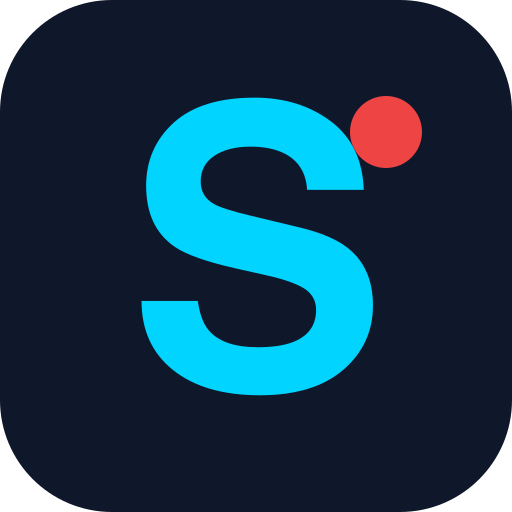
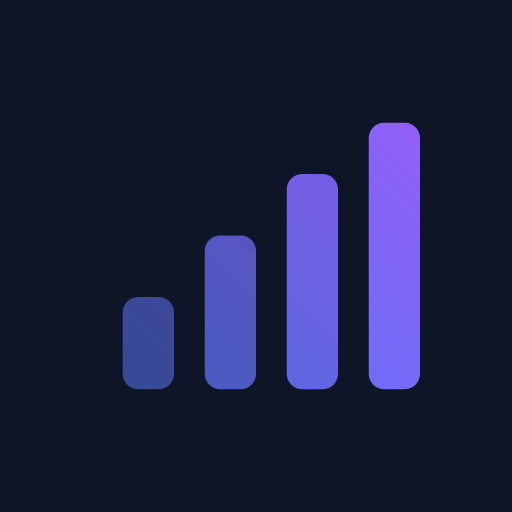
feat(pwa): 앱 아이콘 로고 마크로 교체 + 앱 설치 안내 /app + 푸터 진입점
원인:
- 홈 화면 설치 아이콘이 구 "S+빨간 점" 디자인 — 헤더 로고(막대 4개)와 불일치
- PWA 설치 기능이 있는데 사이트 어디에도 안내·진입점이 없음

해결:
- scripts/build-app-icons.mjs — 로고 Mark SVG 를 아이콘 6종으로 렌더
  (icon-192/512·maskable·apple-touch + src/app 의 icon·apple-icon)
- /app 신설 — PWA 설명 + iPhone/Android/PC 설치 방법 + beforeinstallprompt
  원클릭 설치 버튼(지원 브라우저 한정, standalone 이면 설치됨 표시)
- 푸터 브랜드 카드 "앱 설치" 칩 + 탐색·커뮤니티 목록 링크 추가

검증: tsc 통과. 로컬 실측 — /app 렌더·새 아이콘 표시·manifest 아이콘 3종 200,
푸터 /app 링크 2곳 확인

diff --git a/src/app/app/page.tsx b/src/app/app/page.tsx
@@ -1,0 +1,87 @@
+// 앱 설치 안내 페이지 — PWA(홈 화면에 추가) 설치 방법을 기기별로 안내. 푸터 "앱 설치" 진입점.
+import type { Metadata } from "next";
+import Image from "next/image";
+import InstallButton from "./InstallButton";
+
+export const metadata: Metadata = {
+  title: "앱 설치 — 스코어베이스를 홈 화면에",
+  description:
+    "스코어베이스를 앱처럼 설치하세요. 별도 다운로드 없이 홈 화면에 추가하면 전체 화면으로 더 빠르게 라이브 스코어를 볼 수 있습니다. iPhone·Android·PC 설치 방법 안내.",
+  alternates: { canonical: "/app" },
+};
+
+const STEP =
+  "rounded-2xl border border-neutral-200 bg-white p-5 dark:border-neutral-800 dark:bg-neutral-900";
+const STEP_TITLE = "text-sm font-bold text-neutral-900 dark:text-white";
+const STEP_BODY = "mt-2 space-y-1.5 text-[13px] leading-relaxed text-neutral-600 dark:text-neutral-400";
+
+export default function AppInstallPage() {
+  return (
+    <main className="max-w-2xl mx-auto px-4 sm:px-6 py-10">
+      <div className="flex items-center gap-4">
+        <Image
+          src="/icon-192.png"
+          alt="스코어베이스 앱 아이콘"
+          width={64}
+          height={64}
+          className="rounded-2xl"
+          priority
+        />
+        <div>
+          <h1 className="text-2xl font-black tracking-tight text-neutral-900 dark:text-white">
+            앱으로 설치하기
+          </h1>
+          <p className="mt-1 text-sm text-neutral-500">
+            스토어 다운로드 없이, 지금 보는 사이트를 그대로 앱처럼.
+          </p>
+        </div>
+      </div>
+
+      <div className="mt-5 rounded-2xl bg-blue-500/5 border border-blue-500/15 p-5 text-[13px] leading-relaxed text-neutral-700 dark:text-neutral-300">
+        스코어베이스 앱은 <b>웹앱(PWA)</b> 방식입니다. 앱스토어·플레이스토어에서 내려받는
+        프로그램이 아니라, 브라우저가 이 사이트를 홈 화면에 앱 형태로 얹어 주는 기능이라
+        용량을 거의 차지하지 않고 설치가 1~2초면 끝납니다. 주소창 없는 전체 화면으로 열리고
+        홈 화면 아이콘에서 바로 실행돼 웹으로 여는 것보다 빠르게 느껴집니다. 내용은 웹과
+        실시간으로 동일합니다.
+      </div>
+
+      <div className="mt-5">
+        <InstallButton />
+      </div>
+
+      <div className="mt-8 grid gap-4">
+        <section className={STEP}>
+          <h2 className={STEP_TITLE}>iPhone · iPad (Safari)</h2>
+          <div className={STEP_BODY}>
+            <p>1. Safari 로 scorebase.kr 을 엽니다.</p>
+            <p>2. 하단 가운데 공유 버튼(네모에 화살표)을 누릅니다.</p>
+            <p>3. 목록에서 <b>홈 화면에 추가</b>를 선택하고 추가를 누릅니다.</p>
+          </div>
+        </section>
+
+        <section className={STEP}>
+          <h2 className={STEP_TITLE}>Android (Chrome)</h2>
+          <div className={STEP_BODY}>
+            <p>1. Chrome 으로 scorebase.kr 을 엽니다.</p>
+            <p>2. 오른쪽 위 점 3개 메뉴를 누릅니다.</p>
+            <p>3. <b>앱 설치</b> 또는 <b>홈 화면에 추가</b>를 선택합니다.</p>
+            <p className="text-neutral-400">위의 "지금 바로 설치하기" 버튼이 보이면 그걸 눌러도 됩니다.</p>
+          </div>
+        </section>
+
+        <section className={STEP}>
+          <h2 className={STEP_TITLE}>PC (Chrome · Edge)</h2>
+          <div className={STEP_BODY}>
+            <p>1. 주소창 오른쪽 끝의 설치 아이콘(모니터에 화살표)을 누릅니다.</p>
+            <p>2. 설치를 확인하면 독·작업표시줄에서 앱처럼 실행됩니다.</p>
+          </div>
+        </section>
+      </div>
+
+      <p className="mt-6 text-xs leading-relaxed text-neutral-400">
+        이미 설치한 아이콘의 모양이 예전 것이라면, 홈 화면에서 삭제 후 다시 추가하면 새
+        아이콘으로 바뀝니다. 앱을 지워도 계정·즐겨찾기는 사라지지 않습니다.
+      </p>
+    </main>
+  );
+}

diff --git a/src/components/Footer.tsx b/src/components/Footer.tsx
@@ -51,6 +51,7 @@ const TOOLS: Array<{ href: string; label: string }> = [
 
 // 탐색 · 커뮤니티 — 허브·콘텐츠·회사 정보 (신규 페이지 포함)
 const COMMUNITY: Array<{ href: string; label: string }> = [
+  { href: "/app", label: "앱 설치 (홈 화면에 추가)" },
   { href: "/ai-sports-prediction", label: "AI 스포츠 분석·예측" },
   { href: "/compare/live-score-apps", label: "라이브스코어 앱 비교" },
   { href: "/baseball", label: "야구 허브" },
@@ -94,16 +95,24 @@ export default function Footer() {
               EPL · 라리가 · 분데스 · 세리에 A · 리그 1 · UCL · MLS · KBO · NPB ·
               MLB · NBA · NHL · LCK
             </p>
-            {TELEGRAM_CHANNEL_URL && (
-              <a
-                href={TELEGRAM_CHANNEL_URL}
-                target="_blank"
-                rel="noopener noreferrer"
-                className="mt-4 inline-flex items-center rounded-full bg-neutral-100 px-3 py-1.5 text-xs font-semibold text-neutral-700 transition hover:bg-rose-50 hover:text-rose-700 dark:bg-white/[0.06] dark:text-white/70 dark:hover:bg-white/10 dark:hover:text-white"
+            <div className="mt-4 flex flex-wrap gap-2">
+              <Link
+                href="/app"
+                className="inline-flex items-center rounded-full bg-neutral-100 px-3 py-1.5 text-xs font-semibold text-neutral-700 transition hover:bg-rose-50 hover:text-rose-700 dark:bg-white/[0.06] dark:text-white/70 dark:hover:bg-white/10 dark:hover:text-white"
               >
-                텔레그램 채널 구독
-              </a>
-            )}
+                앱 설치
+              </Link>
+              {TELEGRAM_CHANNEL_URL && (
+                <a
+                  href={TELEGRAM_CHANNEL_URL}
+                  target="_blank"
+                  rel="noopener noreferrer"
+                  className="inline-flex items-center rounded-full bg-neutral-100 px-3 py-1.5 text-xs font-semibold text-neutral-700 transition hover:bg-rose-50 hover:text-rose-700 dark:bg-white/[0.06] dark:text-white/70 dark:hover:bg-white/10 dark:hover:text-white"
+                >
+                  텔레그램 채널 구독
+                </a>
+              )}
+            </div>
           </div>
 
           {/* 카드 2 — 카테고리(종목별 리그) */}

diff --git a/src/app/app/InstallButton.tsx b/src/app/app/InstallButton.tsx
@@ -1,0 +1,60 @@
+"use client";
+// 원클릭 앱 설치 버튼 — beforeinstallprompt 지원 브라우저(안드로이드 크롬·PC 크롬/엣지)에서만 노출.
+// iOS 사파리는 이벤트 미지원 → 페이지의 수동 안내(공유 → 홈 화면에 추가)가 대신한다.
+
+import { useEffect, useState } from "react";
+
+interface BeforeInstallPromptEvent extends Event {
+  prompt: () => Promise<void>;
+  userChoice: Promise<{ outcome: "accepted" | "dismissed" }>;
+}
+
+export default function InstallButton() {
+  const [deferred, setDeferred] = useState<BeforeInstallPromptEvent | null>(null);
+  const [installed, setInstalled] = useState(false);
+
+  useEffect(() => {
+    // 이미 앱(standalone)으로 열려 있으면 설치 완료 상태
+    if (window.matchMedia("(display-mode: standalone)").matches) {
+      setInstalled(true);
+      return;
+    }
+    const onPrompt = (e: Event) => {
+      e.preventDefault();
+      setDeferred(e as BeforeInstallPromptEvent);
+    };
+    const onInstalled = () => {
+      setInstalled(true);
+      setDeferred(null);
+    };
+    window.addEventListener("beforeinstallprompt", onPrompt);
+    window.addEventListener("appinstalled", onInstalled);
+    return () => {
+      window.removeEventListener("beforeinstallprompt", onPrompt);
+      window.removeEventListener("appinstalled", onInstalled);
+    };
+  }, []);
+
+  if (installed) {
+    return (
+      <div className="inline-flex items-center rounded-full bg-emerald-500/10 px-4 py-2 text-sm font-semibold text-emerald-700 dark:text-emerald-400">
+        이미 앱으로 사용 중입니다
+      </div>
+    );
+  }
+  if (!deferred) return null;
+
+  return (
+    <button
+      type="button"
+      onClick={async () => {
+        await deferred.prompt();
+        const { outcome } = await deferred.userChoice;
+        if (outcome === "accepted") setDeferred(null);
+      }}
+      className="inline-flex items-center rounded-full bg-blue-600 px-5 py-2.5 text-sm font-bold text-white transition hover:bg-blue-500"
+    >
+      지금 바로 설치하기
+    </button>
+  );
+}
